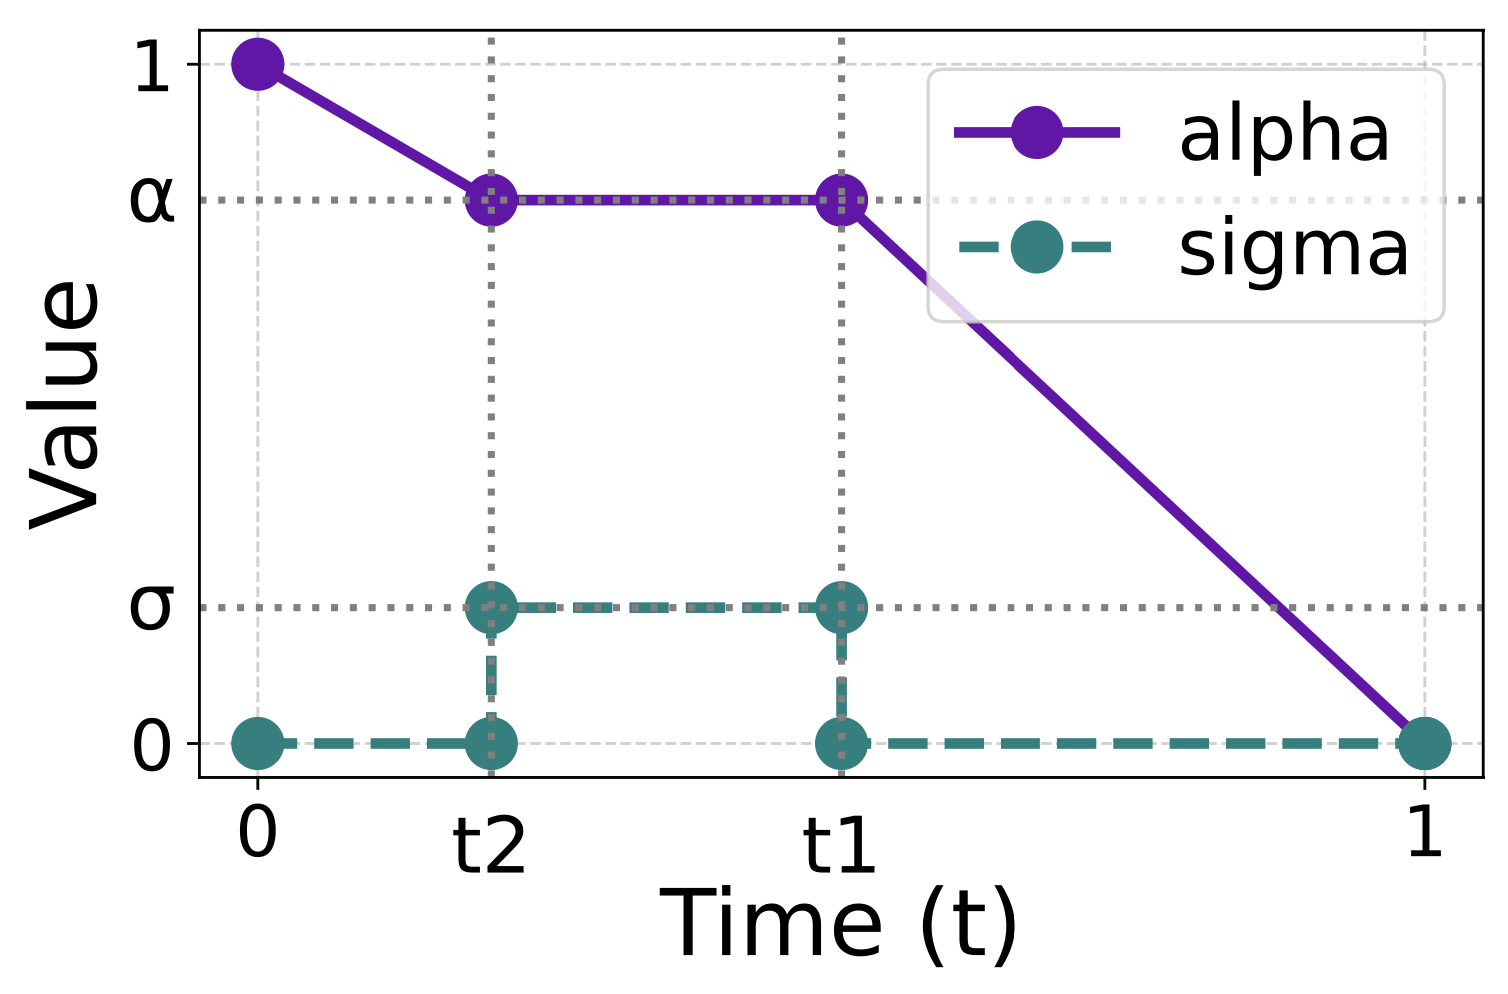
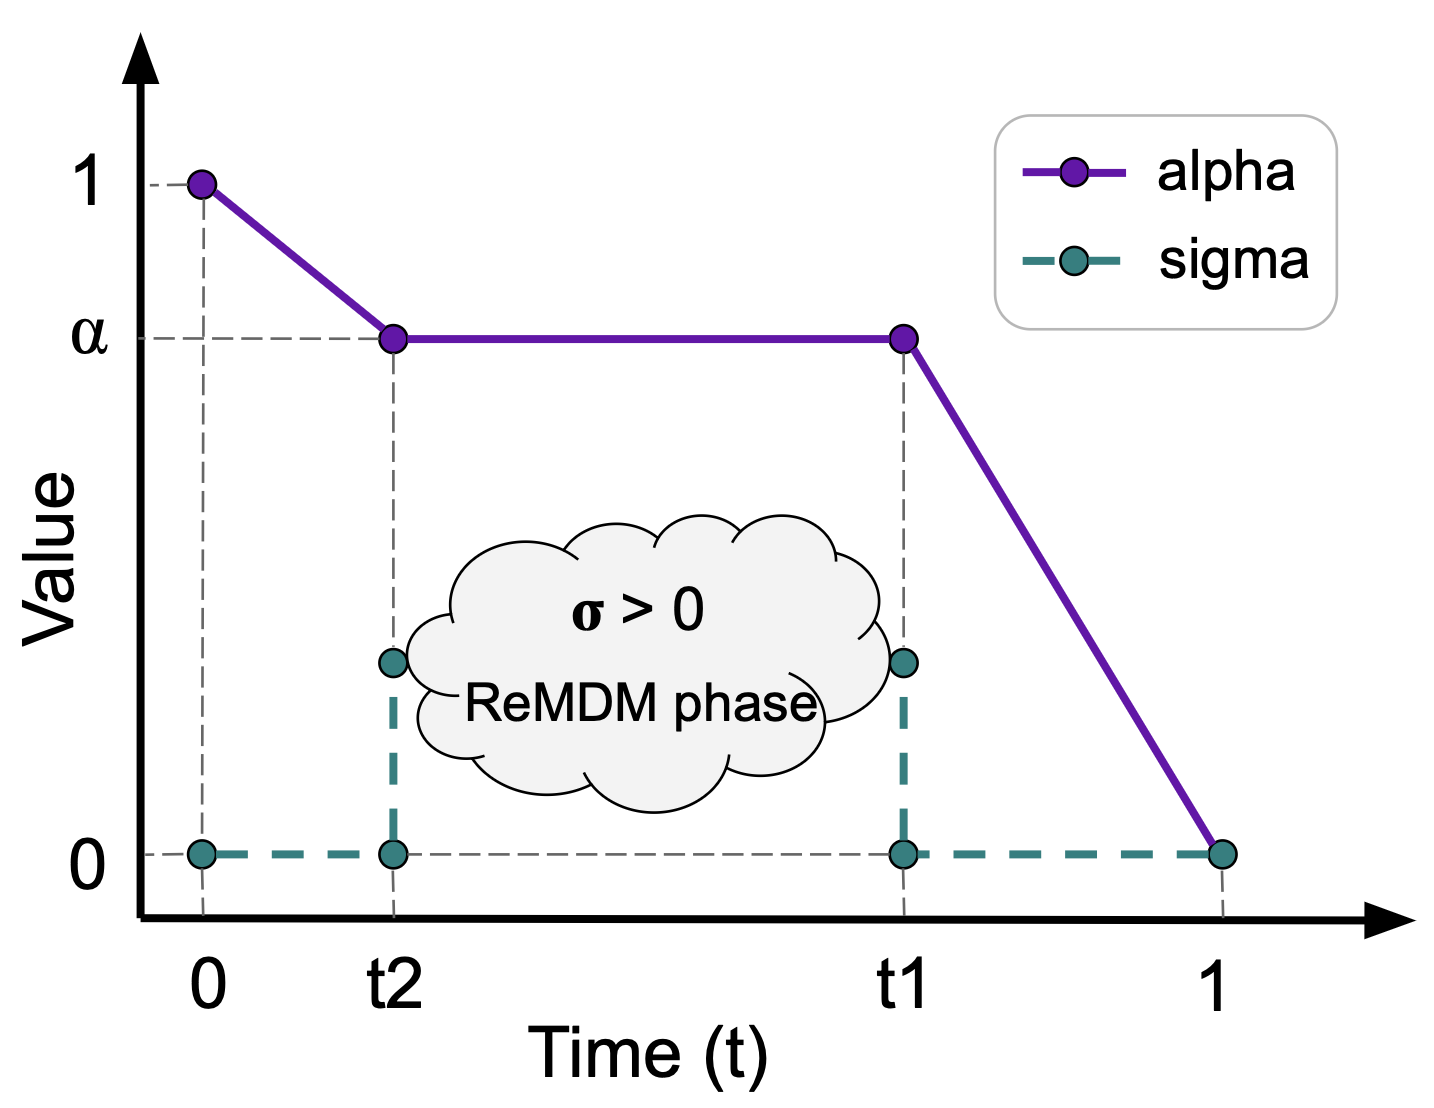
newer version

diff --git a/index.html b/index.html
@@ -353,13 +353,16 @@
       <strong>Switch.</strong> We choose some \(t_{switch} \in (0, 1]\) and we have \( [t_{on}, t_{off}) = [t_{switch}, 0) \). We denote this strategy as “ReMDM-switch.”<br>
       <br><strong>Loop.</strong> In this strategy, we set both \(t_{on}, t_{off} \in (0, 1] \). Furthermore, in the range when ReMDM is activated, we modify the noise schedule to be constant, such that
       \(\alpha_t = \alpha(t_{on})\). As shown in the figure below, this divides the sampling process into three phases. In the first phase, the model generates tokens without remasking (\(\sigma_t = 0\), i.e., using MDLM). In the
-      second phase, we hold \(\alpha\) constant (i.e., \(\alpha_s = \alpha_t\)), and the model can 'correct potential mistakes' by remasking and predicting a fixed proportion of the generated tokens 
-      in a loop. Finally, in the third phase, we let the model predict any remaining unmasked tokens using the MDLM posterior. We denote this strategy as “ReMDM -loop.”<br>
+      second phase, we hold \(\alpha\) constant (i.e., \(\alpha_s = \alpha_t\)), and the model is asked to remask and predict a proportion of the generated tokens in a loop. In particular, 
+      one can use any ReMDM strategy introduced above in this phase. Intuitively, if a 'bad' token is remasked, it will likely be replaced with a 'good' token due to the abundant context.
+      Even if a 'good' token happens to be remasked, since the signal-to-noise ratio is designed to be high in this portion of the generation process, it will likely be re-decoded as other (if not the same)
+      'good' tokens. In this way, ReMDM-loop corrects the 'bad' tokens and maintains the 'good' tokens, i.e., fixes mistakes. Finally, in the third phase, we let the 
+      model predict any remaining unmasked tokens using the MDLM posterior. We denote this strategy as “ReMDM -loop.”<br>
       <br><div class="container is-max-desktop"></div>
         <h4 class="subtitle has-text-centered" style="font-size:1.1rem;font-weight: normal;">
           <img src="static/images/remdm_loop.png" alt="Caduceus" style="width:400px;height:280px; display: block; margin: auto;">
           <br>
-            Depiction of ReMDM-loop \(\sigma_t\) schedule.
+            Depiction of ReMDM-loop \(\alpha_t\) and \(\sigma_t\) schedules.
         </h4>
         <br>
       </div>
